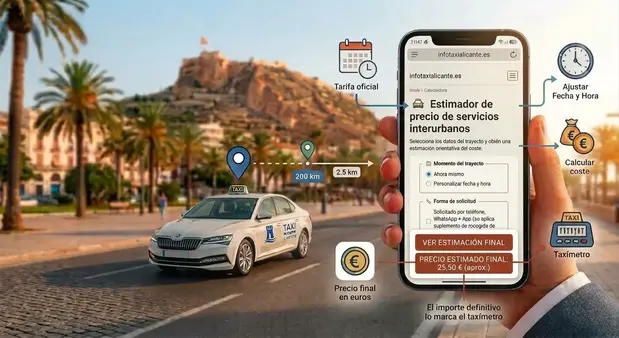
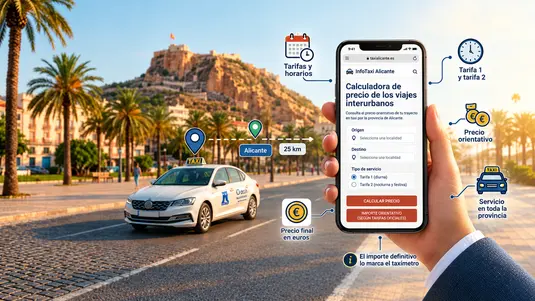
arreglado problema imagenes cortadas en categorias pc

diff --git a/assets/css/main.css b/assets/css/main.css
@@ -741,6 +741,12 @@ main.container aside.sidebar span.category-count {
   display: block;
 }
 
+@media (min-width: 851px) {
+  .post-thumbnail {
+    height: 250px;
+  }
+}
+
 .blog-card-content,
 .post-info {
   padding: 1.5rem 1.5rem 1.2rem;
